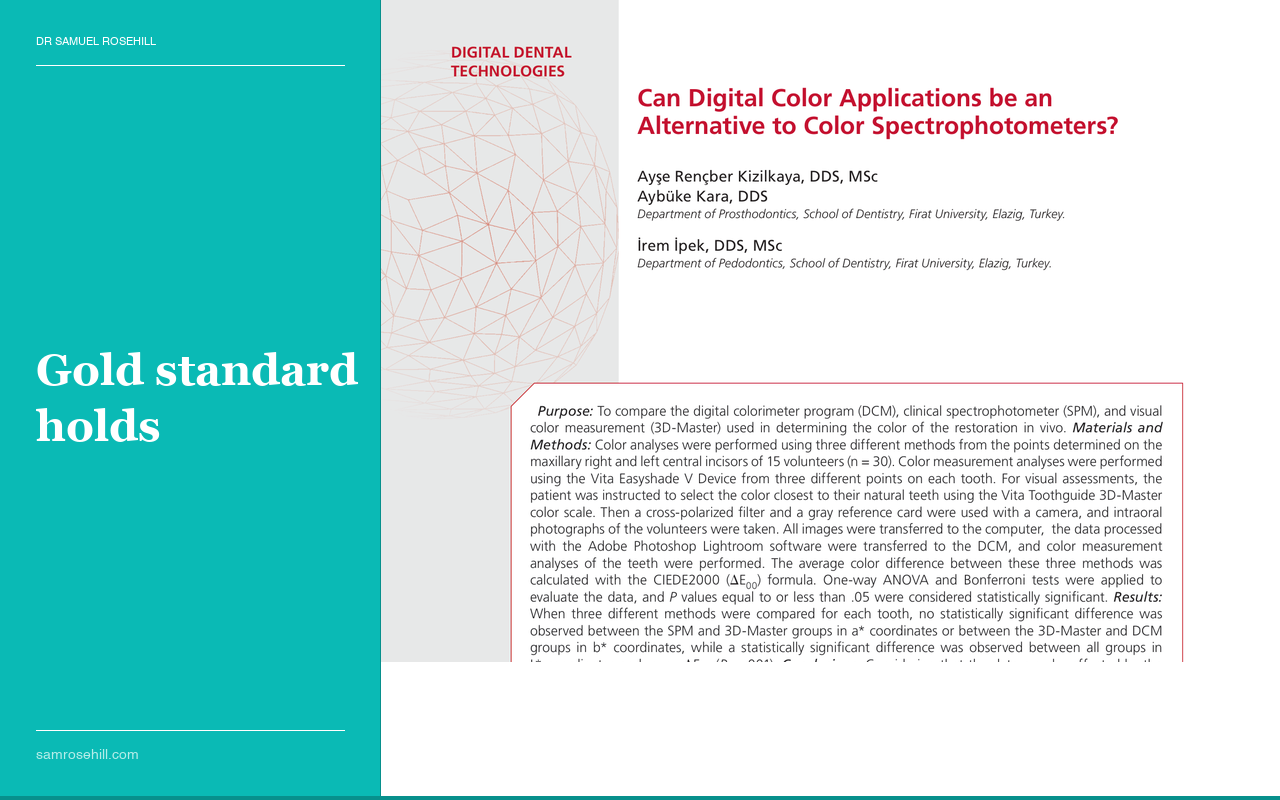
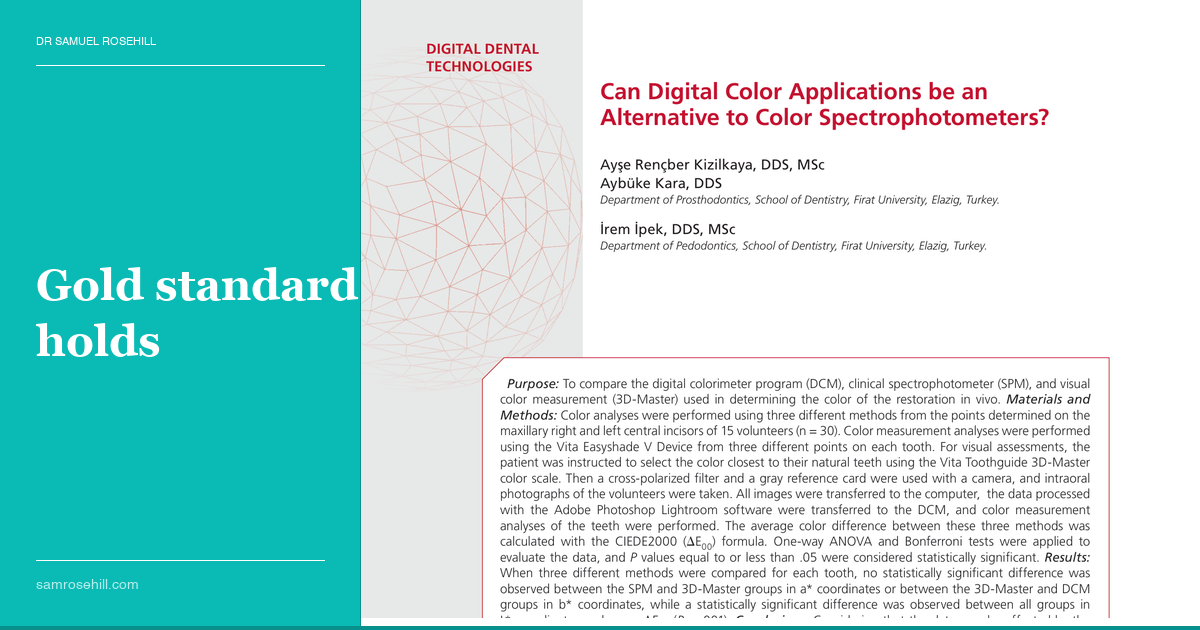
feat: change thumbnails to 1200x630 (1.91:1) for LinkedIn/Substack compatibility
Resize thumbnails from 1280x800 to 1200x630 to match the standard
social preview ratio used by LinkedIn and Substack. Update grid card
aspect ratios from 1:1 to 1.91:1 to prevent cropping.

diff --git a/scripts/generate-thumbnail.py b/scripts/generate-thumbnail.py
@@ -28,9 +28,9 @@ CONTENT_DIR = PROJECT_ROOT / "src" / "content" / "reviews"
 OUTPUT_DIR = PROJECT_ROOT / "public" / "images" / "reviews"
 OUTPUT_DIR.mkdir(parents=True, exist_ok=True)
 
-# Thumbnail dimensions
-WIDTH = 1280
-HEIGHT = 800
+# Thumbnail dimensions (1.91:1 — optimal for LinkedIn + Substack)
+WIDTH = 1200
+HEIGHT = 630
 
 # Design tokens
 PRIMARY = (10, 186, 181)        # #0ABAB5
@@ -145,7 +145,7 @@ def generate_thumbnail(slug: str, pdf_path_override: str = "") -> str:
     ], 24)
 
     # Layout
-    strip_width = 380
+    strip_width = 360
     paper_area_width = WIDTH - strip_width
     paper_area_height = HEIGHT
 
